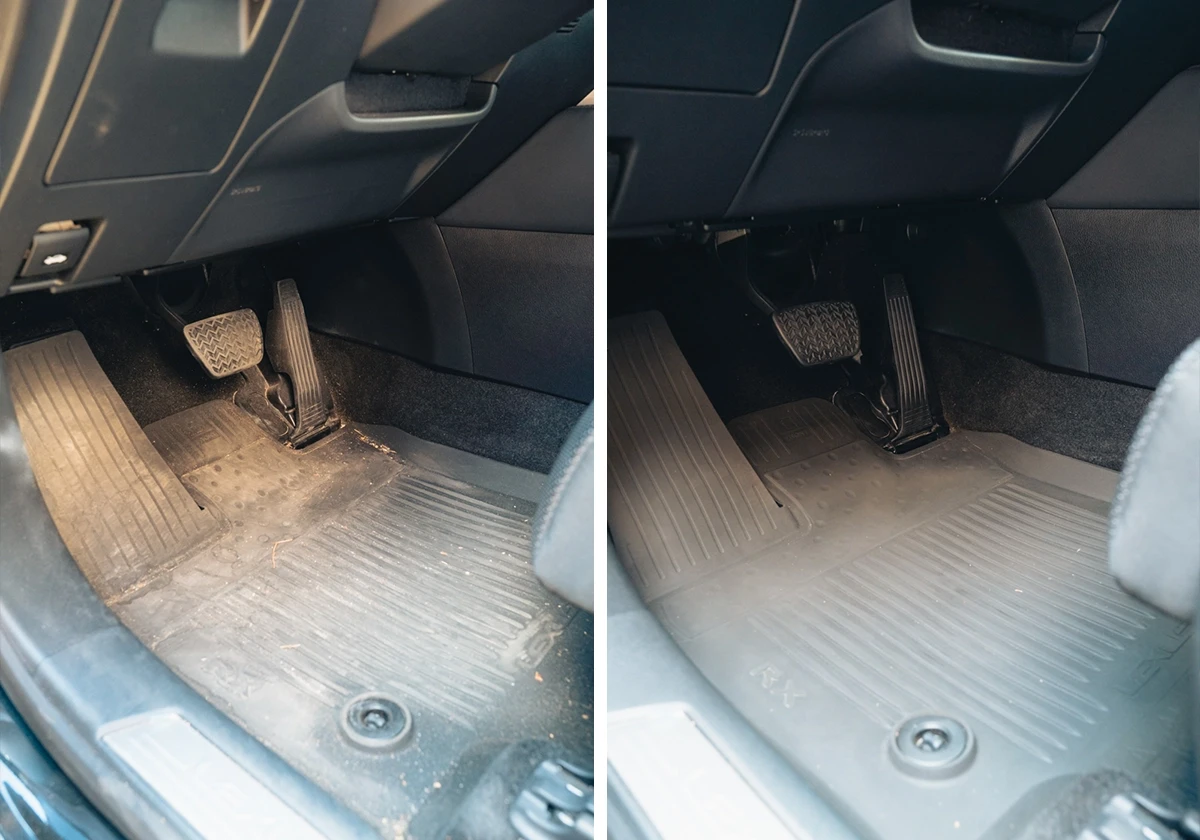
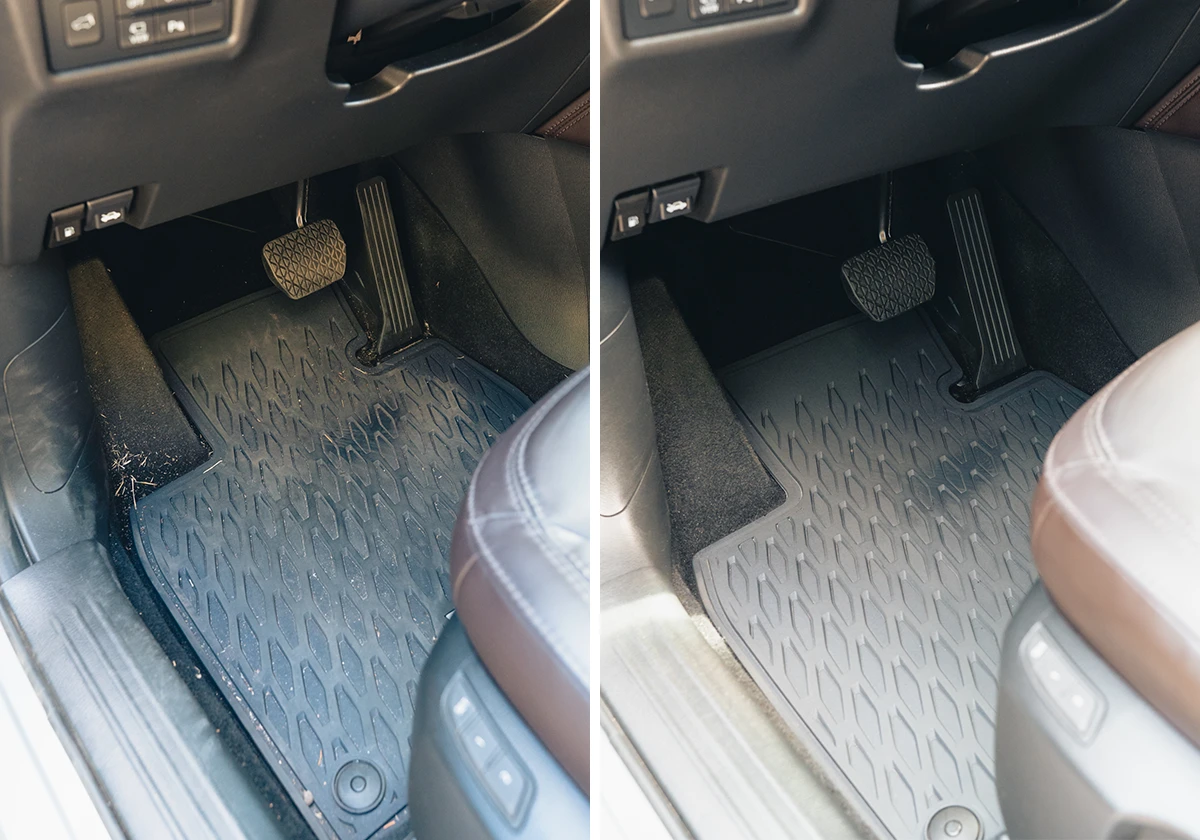
v1.0.9
Many small updates to content and images

diff --git a/src/index.html b/src/index.html
@@ -1,7 +1,7 @@
 ---
 layout: base.html
-title: Mobil autókozmetika Dél-Budán
-description: Tiszta, ápolt autó anélkül, hogy rámenne a fél napod. Mobil autókozmetika Dél-Budán és környékén, ingyenes helyszíni állapotfelméréssel.
+title: Mobil autókozmetika Budapest XXII. kerületében
+description: Házhoz menős mobil autókozmetika Budapest XXII. kerületében. Külső-belső autóápolás ingyenes helyszíni állapotfelméréssel.
 ---
 
 <script type="application/ld+json">{{ schema | json }}</script>
@@ -9,14 +9,14 @@ description: Tiszta, ápolt autó anélkül, hogy rámenne a fél napod. Mobil a
 <main id="tartalom">
   <section class="hero section">
     <div class="container container--narrow">
-      <h1 class="eyebrow hero__eyebrow">Mobil autókozmetika a Campona környékén és Dél-Budán</h1>
-      <p class="hero__title">Tiszta, ápolt autó anélkül, hogy rámenne a fél napod.</p>
-      <p class="hero__lead">Az állapotfelmérés ingyenes, kb. 5 perc és nem kötelez megrendelésre. Utána helyben kapsz konkrét ajánlatot.</p>
+      <h1 class="eyebrow hero__eyebrow">Mobil autókozmetika Budapest XXII. kerületében</h1>
+      <p class="hero__title">Autókozmetika nálad, ahol az autó parkol.</p>
+      <p class="hero__lead">Külső és belső autóápolás ingyenes helyszíni állapotfelméréssel.</p>
       <div class="hero__actions">
         <a class="button" href="#kapcsolat">Ingyenes állapotfelmérés</a>
         <a class="text-link" href="{{ site.contact.telephoneHref }}">{{ site.author.telephone }}</a>
       </div>
-      <p class="hero__note">Kérhetsz csak külső vagy csak belső takarítást is, csak azt csinálom meg, amire tényleg szükséged van.</p>
+      <!-- <p class="hero__note">Nem kell vizet vagy áramot biztosítanod.</p> -->
     </div>
   </section>
 
@@ -128,7 +128,7 @@ description: Tiszta, ápolt autó anélkül, hogy rámenne a fél napod. Mobil a
       <div class="contact-copy">
         <h2>Megnézzük az autódat?</h2>
         <p>Kérj visszahívást, és megbeszéljük, hol van az autó, milyen állapotban van, és mikor tudom személyesen megnézni.</p>
-        <p class="contact-copy__small">Az állapotfelmérés ingyenes és nem kötelez megrendelésre. Utána ott helyben konkrét árajánlatot kapsz. Nincs fix csomag, csak azt választod, amire szükséged van.</p>
+        <p class="contact-copy__small">Az állapotfelmérés ingyenes és nem kötelez megrendelésre. Utána ott helyben konkrét árajánlatot kapsz. A külső és belső ápolást külön is kérheted, az extrákból pedig csak azt választod, amire szükséged van.</p>
 
         <div class="direct-contact">
           <a class="direct-contact__phone" href="{{ site.contact.telephoneHref }}">{{ site.author.telephone }}</a>
@@ -210,7 +210,7 @@ description: Tiszta, ápolt autó anélkül, hogy rámenne a fél napod. Mobil a
               height="840"
               loading="lazy"
             >
-            <figcaption>Belső felületek tisztítása és ápolása</figcaption>
+            <figcaption>Külső műanyag felületek ápolása</figcaption>
           </figure>
 
           <figure class="before-after-item">
@@ -328,7 +328,7 @@ description: Tiszta, ápolt autó anélkül, hogy rámenne a fél napod. Mobil a
 
 <footer class="site-footer">
   <div class="container site-footer__inner">
-    <p class="site-footer__title">Mobil autókozmetika Dél-Budán és környékén.</p>
+    <p class="site-footer__title">Mobil autókozmetika Budapest XXII. kerületében.</p>
     <div class="site-footer__links" aria-label="Kapcsolat">
       <a href="{{ site.contact.telephoneHref }}">{{ site.author.telephone }}</a>
       <a href="{{ site.contact.emailHref }}">{{ site.author.email }}</a>

diff --git a/src/assets/css/style.css b/src/assets/css/style.css
@@ -167,12 +167,14 @@ h4 {
 .hero { padding-top: clamp(6.5rem, 12vw, 11rem); padding-bottom: clamp(5rem, 10vw, 9rem); }
 .hero__eyebrow { margin-bottom: 1.35rem; }
 .hero__title {
+  max-width: 64rem;
   margin-bottom: 1.75rem;
   font-family: var(--serif);
-  font-size: clamp(3.2rem, 8vw, 6.6rem);
+  font-size: clamp(3rem, 7vw, 6rem);
   font-weight: 600;
   letter-spacing: -.015em;
   line-height: 1.04;
+  text-wrap: balance;
 }
 .hero__lead {
   max-width: 52rem;
@@ -265,6 +267,21 @@ h4 {
 }
 .treatment-list--included strong,
 .treatment-list--included span { grid-column: 2; }
+@media (max-width: 620px) {
+  .treatment-list--included li {
+    grid-template-columns: 1fr;
+    gap: 0;
+  }
+
+  .treatment-list--included li::before {
+    display: none;
+  }
+
+  .treatment-list--included strong,
+  .treatment-list--included span {
+    grid-column: 1;
+  }
+}
 .treatment-list--extras li { padding: .9rem 0; }
 .treatment-list--extras strong { margin-bottom: 0; }
 .services__note {
@@ -530,12 +547,13 @@ h4 {
   .container,
   .container--narrow { width: min(calc(100% - 1.5rem), var(--max)); }
   .site-header__inner { min-height: 4.35rem; gap: .7rem; }
-  .brand { max-width: 13rem; font-size: 1rem; }
+  .brand { max-width: none; font-size: .98rem; white-space: nowrap; }
   .button--small { min-height: 2.55rem; padding: .55rem .8rem; font-size: .86rem; }
   .button__long { display: none; }
   .button__short { display: inline; }
-  .hero { padding-top: 5.3rem; }
-  .hero__title { font-size: clamp(3rem, 14vw, 4.5rem); }
+  .hero { padding-top: 3.4rem; }
+  .hero__eyebrow { margin-bottom: 1rem; }
+  .hero__title { margin-bottom: 1.4rem; font-size: clamp(2.5rem, 11.5vw, 4rem); letter-spacing: -.025; }
   .hero__actions { align-items: flex-start; flex-direction: column; }
   .service-card { padding: 1.35rem; }
   .before-after-grid { grid-template-columns: 1fr; }
@@ -556,7 +574,7 @@ h4 {
 }
 
 @media (max-width: 420px) {
-  .brand { max-width: 10.5rem; font-size: .94rem; }
+  .brand { font-size: .92rem; }
 }
 
 

diff --git a/src/_data/schema.js b/src/_data/schema.js
@@ -5,7 +5,7 @@ module.exports = [
   {
     '@context': 'https://schema.org',
     '@type': 'Service',
-    name: 'Mobil autókozmetika Dél-Budán és környékén',
+    name: 'Mobil autókozmetika Budapest XXII. kerületében',
     serviceType: 'Mobil autókozmetika',
     url: site.url,
     description: site.description_short,
